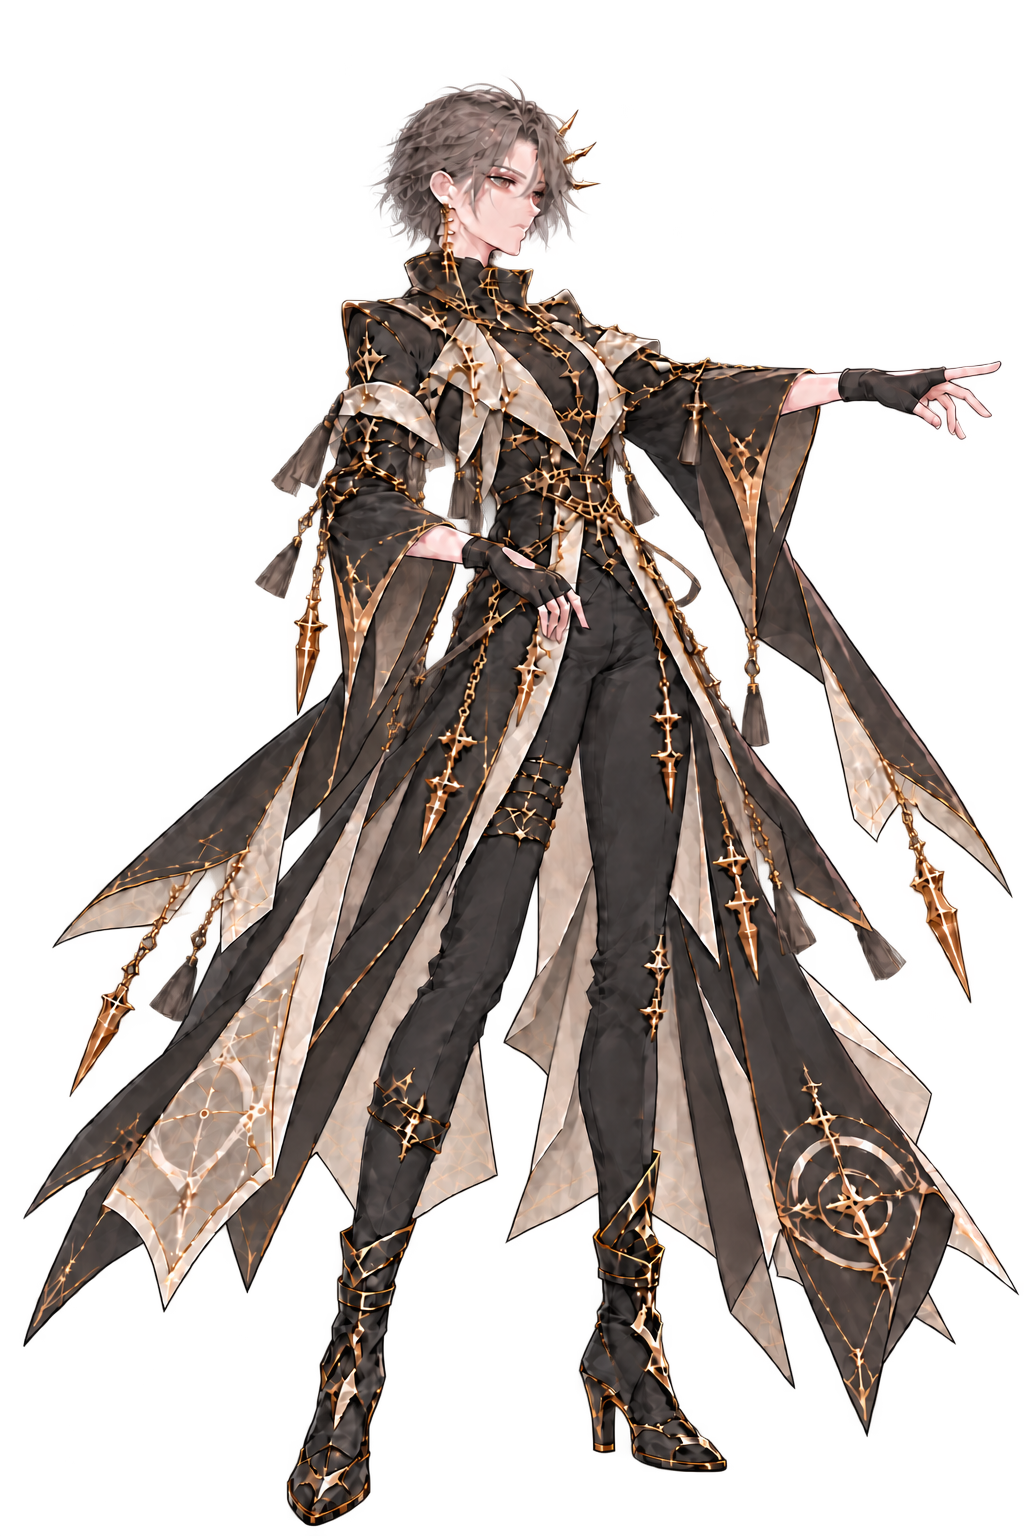
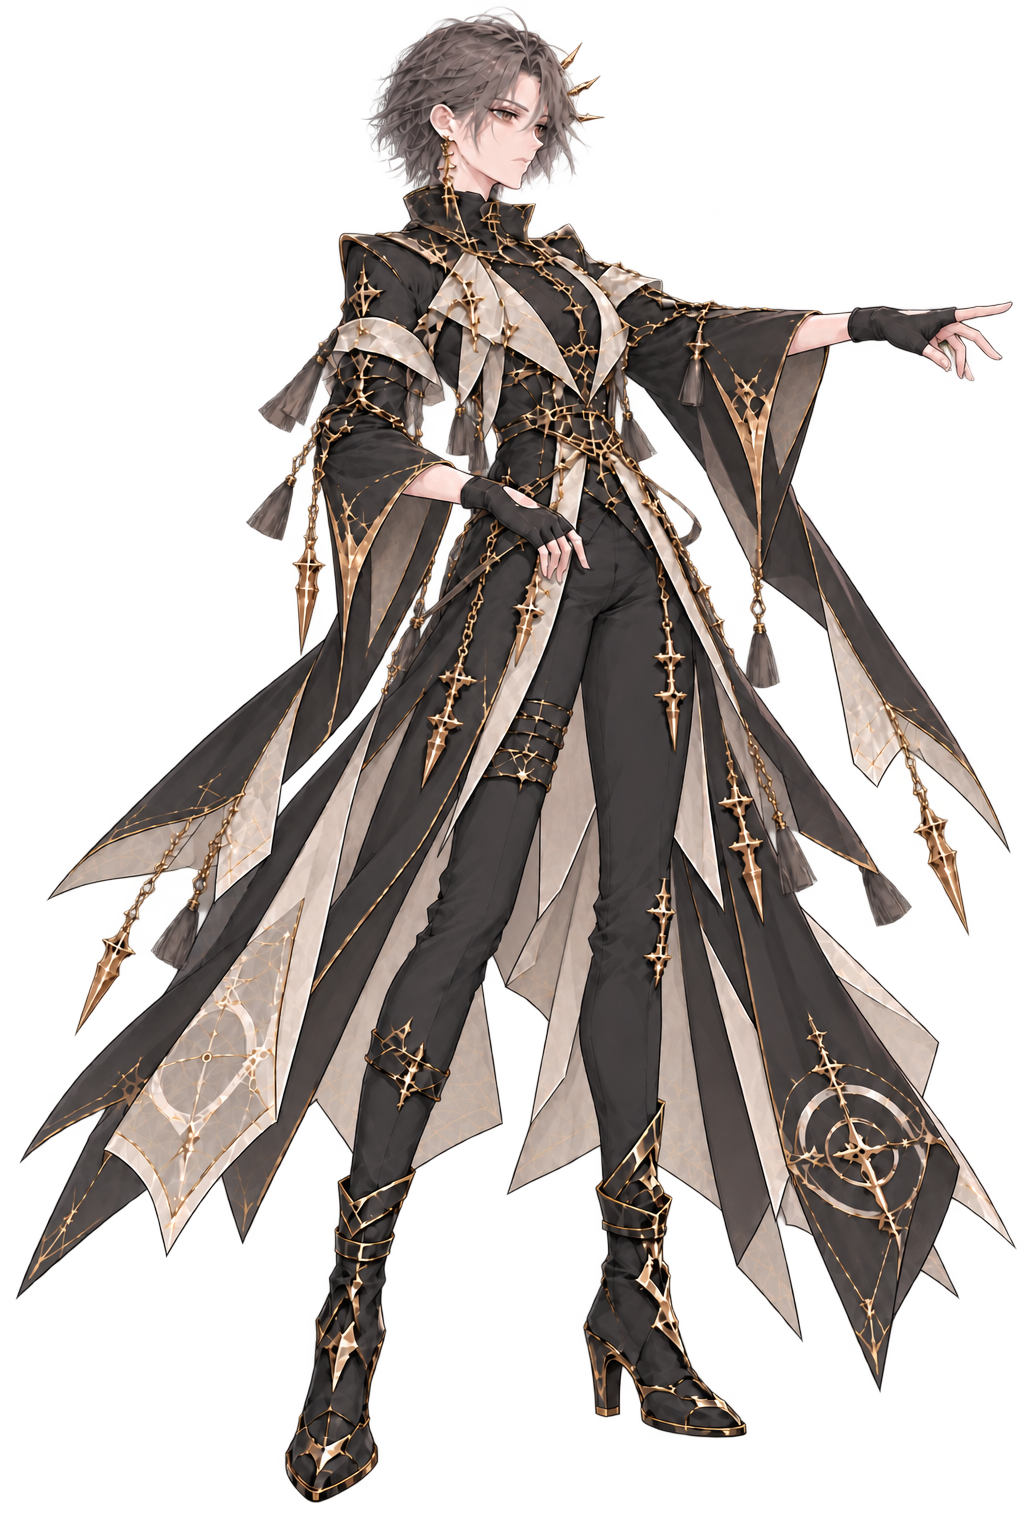
カタの杭なし戦闘立ち絵v3を適用し接地位置を調整

diff --git a/DemoApp/UiKit.cs b/DemoApp/UiKit.cs
@@ -242,7 +242,7 @@ public static class UiKit
         "shiga" => 0.03125f,
         "shio" => 0.0182f,
         "susu" => 0.01628f,
-        "kata" => 0.00716f,
+        "kata" => 0.02214f,
         "basa" => 0.0540f,
         "nara" => 0.1400f,
         "nel" => 0.0378f,

diff --git a/design/art/kata/kata-idle-right-body-v3-prompt.md b/design/art/kata/kata-idle-right-body-v3-prompt.md
@@ -3,7 +3,7 @@
 生成: built-in image_gen
 参照: kata-idle-right-v3.png（杭分離前の戦闘絵）
 出力: kata-idle-right-body-v3.png
-比較用。ゲーム未適用。黒目の大きさ・白目・描画の滑らかさを調整。
+採用済み。ゲームの battle/kata_idle_right.png に適用。足元の透明余白に合わせて接地補正を0.02214に更新。黒目の大きさ・白目・描画の滑らかさを調整。
 
 Rebuild a clean high-quality game character sprite directly from this ORIGINAL battle illustration reference, not an overprocessed retouch. Same adult female Kata, exact right-facing battle pose, same slender feminine proportions, outfit construction, palette, head angle and composition. Produce a polished clean rendering with crisp controlled linework, smooth coherent painted shading, elegant well-defined hair strands, matte cloth with broad graceful folds, and distinct pale-gold metal edges. Eliminate crumpled noisy faceting, muddy texture, oversharpened grain, scratchy surfaces and excessive tiny highlights. Do not add ornamentation. Retain existing gold chain layout and layered taupe chest lapels.
 IMPORTANT EYES: visibly increase the gray-brown IRIS diameter by about 20 percent compared to reference while keeping the same narrow eye opening and calm assessing expression. Iris partly occluded by upper eyelid, clear dark pupil, small restrained catchlight. Visible sclera on either side must be clean soft natural white, distinctly lighter than iris, without red/brown muddy tint. Do not enlarge the entire eyes or change to cute round eyes. Preserve focused cool gaze, subtle brow pressure, closed relaxed lips and adult facial identity.
